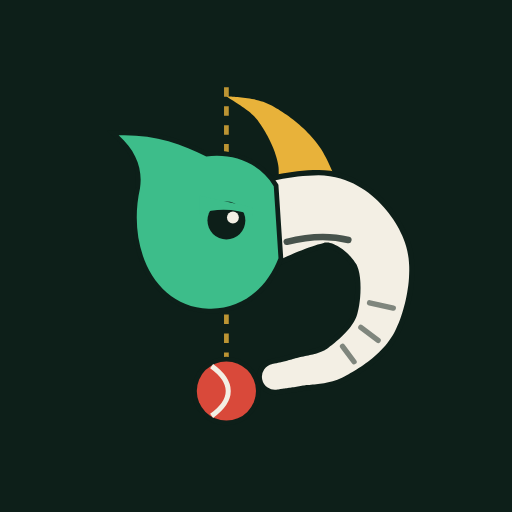
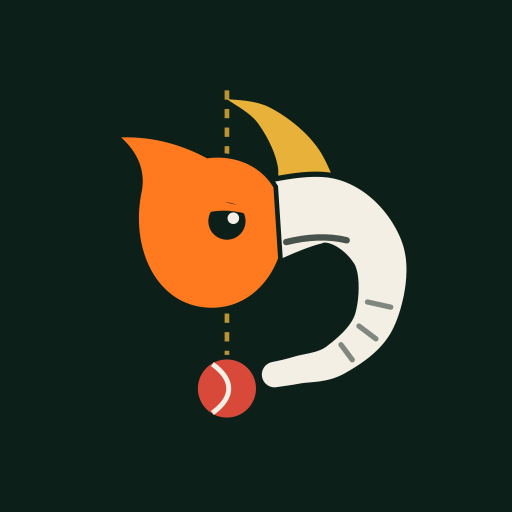
An opening that tells the idea, and an orange mark
- The opening now says what Align is before the page does (about 2.4 s): the
  mark spins in, its gold line drops from the eye to the ball, "Align"
  appears, then "Eyes over the ball." and "Everything in line.", and the
  curtain splits along the line and swings open as the first screen rises.
  The landing page plays it every time it is opened; the app's home once per
  visit. Reduced motion shows it still, then fades.
- The mark's creature is orange (#ff7a1f) instead of green, in the logo
  component, both SVG icons, the PNG app icons, the maskable icon, the Apple
  touch icon and the favicon. The landing page's accent and main button
  follow it, so the line the curtain ends on reads the same on the page.

Claude-Session: https://claude.ai/code/session_018maGUmC6fVNFGE92R1d1BB

diff --git a/src/components/icons.tsx b/src/components/icons.tsx
@@ -56,12 +56,12 @@ export function Mark({ size = 24 }: { size?: number }) {
       <path d="M31.73 34.39 L32.16 34.24 L32.70 34.04 L33.23 33.83 L33.77 33.61 L34.31 33.37 L34.88 33.12 L35.46 32.86 L36.05 32.59 L36.66 32.32 L37.28 32.05 L37.90 31.78 L38.52 31.51 L39.14 31.26 L39.75 31.01 L40.35 30.78 L40.92 30.57 L41.47 30.38 L41.97 30.21 L42.43 30.07 L42.84 29.96 L43.17 29.88 L43.41 29.81 L43.54 29.76 L43.59 29.72 L43.70 29.70 L43.88 29.70 L44.07 29.71 L44.28 29.74 L44.50 29.79 L44.74 29.86 L44.99 29.95 L45.24 30.05 L45.50 30.18 L45.77 30.32 L46.04 30.47 L46.30 30.65 L46.57 30.83 L46.83 31.03 L47.08 31.24 L47.33 31.45 L47.56 31.68 L47.79 31.91 L48.00 32.14 L48.20 32.37 L48.38 32.60 L48.55 32.82 L48.70 33.04 L48.83 33.22 L48.93 33.37 L49.02 33.54 L49.12 33.76 L49.21 34.01 L49.30 34.30 L49.38 34.62 L49.46 34.96 L49.52 35.33 L49.57 35.72 L49.61 36.13 L49.64 36.54 L49.65 36.97 L49.66 37.40 L49.65 37.84 L49.64 38.27 L49.61 38.71 L49.58 39.13 L49.53 39.55 L49.48 39.96 L49.42 40.35 L49.35 40.73 L49.28 41.08 L49.20 41.41 L49.13 41.70 L49.07 41.93 L48.99 42.16 L48.90 42.40 L48.79 42.65 L48.66 42.90 L48.52 43.15 L48.36 43.41 L48.18 43.67 L47.99 43.93 L47.79 44.19 L47.57 44.46 L47.34 44.72 L47.11 44.97 L46.86 45.23 L46.61 45.47 L46.35 45.72 L46.09 45.96 L45.83 46.19 L45.57 46.42 L45.30 46.64 L45.04 46.86 L44.78 47.06 L44.52 47.26 L44.29 47.44 L44.12 47.58 L43.95 47.69 L43.78 47.80 L43.60 47.91 L43.41 48.01 L43.21 48.10 L43.01 48.19 L42.79 48.27 L42.57 48.35 L42.34 48.43 L42.11 48.50 L41.86 48.56 L41.62 48.62 L41.36 48.68 L41.11 48.74 L40.85 48.80 L40.58 48.85 L40.31 48.91 L40.04 48.96 L39.77 49.02 L39.49 49.08 L39.21 49.14 L38.92 49.22 L38.66 49.29 L38.43 49.36 L38.23 49.41 L38.03 49.47 L37.84 49.53 L37.64 49.58 L37.45 49.63 L37.26 49.68 L37.08 49.73 L36.90 49.77 L36.72 49.82 L36.54 49.86 L36.38 49.90 L36.21 49.93 L36.05 49.97 L35.90 50.00 L35.75 50.04 L35.61 50.07 L35.47 50.10 L35.34 50.12 L35.22 50.15 L35.10 50.17 L34.98 50.20 L34.87 50.22 L34.78 50.24 A2.20 2.20 0 0 0 35.62 54.56 L35.70 54.54 L35.79 54.53 L35.89 54.52 L35.99 54.50 L36.11 54.48 L36.24 54.46 L36.38 54.44 L36.53 54.42 L36.69 54.40 L36.85 54.38 L37.02 54.35 L37.20 54.33 L37.38 54.30 L37.58 54.27 L37.77 54.24 L37.97 54.21 L38.18 54.18 L38.40 54.15 L38.61 54.11 L38.84 54.07 L39.06 54.03 L39.29 53.99 L39.53 53.95 L39.74 53.91 L39.93 53.88 L40.11 53.86 L40.31 53.83 L40.53 53.81 L40.77 53.79 L41.02 53.77 L41.29 53.75 L41.57 53.72 L41.86 53.69 L42.17 53.66 L42.48 53.63 L42.81 53.59 L43.15 53.54 L43.49 53.48 L43.85 53.42 L44.21 53.34 L44.59 53.25 L44.96 53.15 L45.35 53.03 L45.74 52.89 L46.13 52.74 L46.53 52.56 L46.93 52.37 L47.31 52.16 L47.64 51.97 L47.96 51.78 L48.29 51.59 L48.64 51.38 L48.99 51.16 L49.35 50.93 L49.72 50.69 L50.09 50.44 L50.47 50.17 L50.85 49.89 L51.23 49.60 L51.61 49.30 L51.99 48.98 L52.37 48.64 L52.74 48.30 L53.11 47.93 L53.47 47.55 L53.83 47.14 L54.17 46.72 L54.50 46.28 L54.82 45.82 L55.13 45.33 L55.41 44.82 L55.67 44.30 L55.89 43.80 L56.10 43.31 L56.30 42.79 L56.49 42.26 L56.67 41.72 L56.84 41.16 L57.00 40.59 L57.15 40.01 L57.29 39.42 L57.42 38.82 L57.53 38.21 L57.63 37.59 L57.72 36.97 L57.79 36.34 L57.84 35.70 L57.87 35.06 L57.89 34.41 L57.88 33.76 L57.84 33.11 L57.78 32.44 L57.68 31.78 L57.55 31.11 L57.38 30.43 L57.17 29.78 L56.95 29.17 L56.71 28.60 L56.44 28.03 L56.16 27.46 L55.85 26.91 L55.52 26.36 L55.17 25.81 L54.80 25.27 L54.40 24.74 L53.99 24.22 L53.55 23.71 L53.08 23.20 L52.60 22.71 L52.09 22.24 L51.55 21.78 L50.99 21.33 L50.40 20.91 L49.78 20.50 L49.13 20.12 L48.46 19.77 L47.75 19.44 L47.02 19.15 L46.25 18.90 L45.41 18.68 L44.46 18.51 L43.50 18.42 L42.58 18.38 L41.69 18.39 L40.81 18.43 L39.94 18.50 L39.08 18.59 L38.23 18.70 L37.38 18.83 L36.55 18.97 L35.72 19.12 L34.91 19.27 L34.13 19.43 L33.36 19.60 L32.62 19.76 L31.91 19.91 L31.24 20.06 L30.62 20.20 L30.04 20.32 L29.53 20.43 L29.09 20.51 L28.74 20.57 L28.50 20.59 L28.27 20.61 Z" fill="#f3efe4" stroke="#0d1f19" strokeWidth="1.8" paintOrder="stroke" />
       <path d="M51.18 39.91 L55.19 40.80 M49.71 44.05 L52.63 46.25 M46.62 47.26 L48.56 49.86 " stroke="#0d1f19" strokeWidth="0.9" strokeLinecap="round" opacity="0.5" />
       <path d="M37.2 29.6 C40.8 28.7,44.4 28.5,47.6 29.3" stroke="#0d1f19" strokeWidth="1.1" strokeLinecap="round" fill="none" opacity="0.75" />
-      <path d="M35 20.2 C32.6 16.2,28 14.6,23.6 15.2 C19.5 13,14.5 11.4,8.8 11.6 C11.8 14.3,12.9 17.4,12.4 20.6 C10.2 30.5,14.8 40.6,24 40.9 C29.6 41.1,33.9 37.4,35.8 32.4 Z" fill="#3dbd8a" stroke="#0d1f19" strokeWidth="1.6" paintOrder="stroke" />
+      <path d="M35 20.2 C32.6 16.2,28 14.6,23.6 15.2 C19.5 13,14.5 11.4,8.8 11.6 C11.8 14.3,12.9 17.4,12.4 20.6 C10.2 30.5,14.8 40.6,24 40.9 C29.6 41.1,33.9 37.4,35.8 32.4 Z" fill="#ff7a1f" stroke="#0d1f19" strokeWidth="1.6" paintOrder="stroke" />
       <circle cx="27" cy="54.8" r="5" fill="#d9493a" stroke="#0d1f19" strokeWidth="1.6" paintOrder="stroke" />
       <path d="M24.50 50.60 C28.25 53.30,28.25 56.30,24.50 59.00" stroke="#f3efe4" strokeWidth="0.85" fill="none" />
       <circle cx="27" cy="26" r="3.2" fill="#0d1f19" />
       <circle cx="28.1" cy="25.5" r="1" fill="#f3efe4" />
-      <path d="M22.40 21.80 L31.40 23.80 L31.40 25.10 C28.80 24.10,25.40 23.80,22.40 24.90 Z" fill="#3dbd8a" />
+      <path d="M22.40 21.80 L31.40 23.80 L31.40 25.10 C28.80 24.10,25.40 23.80,22.40 24.90 Z" fill="#ff7a1f" />
     </svg>
   );
 }

diff --git a/src/app/globals.css b/src/app/globals.css
@@ -410,11 +410,11 @@
   width: 2px;
 }
 .btn-landing {
-  background: #3dbd8a;
-  color: #06130d;
+  background: #ff7a1f;
+  color: #1a0b00;
 }
 .btn-landing:hover {
-  background: #5bcd9f;
+  background: #ff9346;
 }
 .btn-landing-ghost {
   border: 1px solid rgb(243 239 228 / 0.28);
@@ -424,14 +424,15 @@
   background: rgb(243 239 228 / 0.08);
 }
 
-/* The landing page's opening: mark in, line down, curtain open. */
+/* Align's opening: the mark, the line, the name, the idea, then the curtain. ~2.4 s. */
 .intro {
   position: fixed;
   inset: 0;
   z-index: 100;
   pointer-events: none;
   perspective: 1200px;
-  animation: intro-gone 0s linear 1.3s forwards;
+  color: #f3efe4;
+  animation: intro-gone 0s linear 2.45s forwards;
 }
 .intro-half {
   position: absolute;
@@ -442,17 +443,17 @@
     radial-gradient(120% 70% at 50% 40%, #153a2b 0%, transparent 65%),
     #08130f;
   backface-visibility: hidden;
-  will-change: transform, opacity;
+  will-change: transform;
 }
 .intro-left {
   left: 0;
   transform-origin: 0% 50%;
-  animation: intro-door-left 0.6s cubic-bezier(0.6, 0, 0.3, 1) 0.66s forwards;
+  animation: intro-door-left 0.6s cubic-bezier(0.6, 0, 0.3, 1) 1.82s forwards;
 }
 .intro-right {
   right: 0;
   transform-origin: 100% 50%;
-  animation: intro-door-right 0.6s cubic-bezier(0.6, 0, 0.3, 1) 0.66s forwards;
+  animation: intro-door-right 0.6s cubic-bezier(0.6, 0, 0.3, 1) 1.82s forwards;
 }
 .intro-line {
   position: absolute;
@@ -466,40 +467,82 @@
   transform: scaleY(0);
   will-change: transform, opacity;
   animation:
-    intro-line-down 0.38s cubic-bezier(0.2, 0.8, 0.2, 1) 0.28s forwards,
-    intro-fade 0.2s ease-in 0.66s forwards;
+    intro-line-down 0.4s cubic-bezier(0.2, 0.8, 0.2, 1) 0.3s forwards,
+    intro-line-dim 0.3s ease 0.62s forwards,
+    intro-fade 0.2s ease-in 1.8s forwards;
+}
+.intro-stage {
+  position: absolute;
+  inset: 0;
+  display: flex;
+  flex-direction: column;
+  align-items: center;
+  justify-content: center;
+  gap: 0.9rem;
+  padding: 0 1.5rem 6vh;
+  text-align: center;
+  will-change: transform, opacity;
+  animation: intro-stage-out 0.4s cubic-bezier(0.5, 0, 0.75, 0) 1.74s forwards;
 }
 .intro-mark {
-  position: absolute;
-  left: 50%;
-  top: 50%;
   border-radius: 30px;
-  box-shadow: 0 0 70px rgb(61 189 138 / 0.35);
-  transform: translate(-50%, -50%);
-  will-change: transform, opacity;
-  animation:
-    intro-mark-in 0.55s cubic-bezier(0.2, 0.8, 0.2, 1) both,
-    intro-mark-out 0.36s cubic-bezier(0.5, 0, 0.75, 0) 0.64s forwards;
+  box-shadow: 0 0 70px rgb(255 122 31 / 0.35);
+  animation: intro-mark-in 0.55s cubic-bezier(0.2, 0.8, 0.2, 1) both;
+}
+.intro-word {
+  font-size: 2.6rem;
+  font-weight: 650;
+  letter-spacing: -0.03em;
+  line-height: 1;
+  animation: intro-word-in 0.5s cubic-bezier(0.2, 0.8, 0.2, 1) 0.55s both;
+}
+.intro-tag {
+  display: flex;
+  flex-direction: column;
+  gap: 0.15rem;
+  font-size: 1.4rem;
+  font-weight: 600;
+  letter-spacing: -0.01em;
+}
+.intro-t1 {
+  animation: intro-rise-in 0.42s cubic-bezier(0.2, 0.8, 0.2, 1) 0.88s both;
+}
+.intro-t2 {
+  color: #ff7a1f;
+  animation: intro-rise-in 0.42s cubic-bezier(0.2, 0.8, 0.2, 1) 1.14s both;
 }
 @keyframes intro-mark-in {
   from {
-    transform: translate(-50%, -50%) rotateY(-200deg) scale(0.5);
+    transform: rotateY(-200deg) scale(0.5);
     opacity: 0;
   }
-  to {
-    transform: translate(-50%, -50%) rotateY(0deg) scale(1);
-    opacity: 1;
+}
+@keyframes intro-word-in {
+  from {
+    opacity: 0;
+    letter-spacing: 0.35em;
   }
 }
-@keyframes intro-mark-out {
+@keyframes intro-rise-in {
+  from {
+    opacity: 0;
+    transform: translateY(10px);
+  }
+}
+@keyframes intro-stage-out {
   to {
-    transform: translate(-50%, -50%) scale(1.9);
+    transform: scale(1.18);
     opacity: 0;
   }
 }
 @keyframes intro-line-down {
   to {
     transform: scaleY(1);
+  }
+}
+@keyframes intro-line-dim {
+  to {
+    opacity: 0.3;
   }
 }
 @keyframes intro-fade {
@@ -524,7 +567,7 @@
 }
 /* What the curtain opens onto rises into place as it opens (only when the curtain plays). */
 .intro ~ section .intro-after {
-  animation: intro-rise 0.7s cubic-bezier(0.2, 0.8, 0.2, 1) 0.74s both;
+  animation: intro-rise 0.7s cubic-bezier(0.2, 0.8, 0.2, 1) 1.9s both;
 }
 @keyframes intro-rise {
   from {
@@ -533,14 +576,18 @@
   }
 }
 @media (prefers-reduced-motion: reduce) {
-  /* No spin, no swing: the mark shows, then the whole curtain fades. */
+  /* No spin, no swing: the name and the idea, still, then the whole curtain fades. */
   .intro {
     animation:
-      intro-fade 0.4s ease 0.7s forwards,
-      intro-gone 0s linear 1.1s forwards;
+      intro-fade 0.4s ease 1.7s forwards,
+      intro-gone 0s linear 2.1s forwards;
   }
   .intro-half,
-  .intro-mark {
+  .intro-mark,
+  .intro-word,
+  .intro-t1,
+  .intro-t2,
+  .intro-stage {
     animation: none;
   }
   .intro-line {
@@ -550,3 +597,4 @@
     animation: none;
   }
 }
+

diff --git a/src/components/landing/intro.tsx b/src/components/landing/intro.tsx
@@ -3,36 +3,43 @@
 import { useState } from "react";
 import { Mark } from "@/components/icons";
 
-// Shown once per visit: on the page Align opens on (the landing page, or the app's home
-// when it is launched from the home screen), never again on moving between pages.
+// The app's home plays it once per visit (when Align is opened from the home screen);
+// the landing page plays it every time it is opened.
 let played = false;
 
 /**
- * Align's opening, like a film studio's ident before the feature: the mark spins in, its
- * gold line runs the height of the screen, then the curtain splits along that line and
- * swings open onto the page. About 1.3 s, all CSS (it starts before any script loads and
- * runs on the compositor), and it never blocks a tap. With reduced motion asked for, the
- * mark simply fades away instead.
+ * Align's opening, like a film studio's ident before the feature, telling the idea before
+ * the page does: the mark spins in, its gold line drops from the eye to the ball, the name
+ * appears, then "Eyes over the ball. Everything in line.", and the curtain splits along
+ * the line and swings open onto the page. About 2.4 s, all CSS (it starts before any
+ * script loads and runs on the compositor), and it never blocks a tap. With reduced
+ * motion asked for, it shows still and fades.
  */
-export function Intro() {
-  const [first] = useState(() => {
-    // The server always draws it (each page is prepared on its own); the browser keeps
-    // count, so the page a visit opens on plays it and later pages don't.
+export function Intro({ always = false }: { always?: boolean }) {
+  const [show] = useState(() => {
+    // The server always draws it (each page is prepared on its own); the browser keeps count.
     if (typeof window === "undefined") return true;
-    const f = !played;
+    const first = !played;
     played = true;
-    return f;
+    return always || first;
   });
-  if (!first) return null;
+  if (!show) return null;
   return (
     <div className="intro" aria-hidden>
       <div className="intro-half intro-left" />
       <div className="intro-half intro-right" />
       <div className="intro-line" />
-      <div className="intro-mark">
-        <span className="block overflow-hidden rounded-[30px]">
-          <Mark size={120} />
-        </span>
+      <div className="intro-stage">
+        <div className="intro-mark">
+          <span className="block overflow-hidden rounded-[30px]">
+            <Mark size={112} />
+          </span>
+        </div>
+        <p className="intro-word">Align</p>
+        <p className="intro-tag">
+          <span className="intro-t1">Eyes over the ball.</span>
+          <span className="intro-t2">Everything in line.</span>
+        </p>
       </div>
     </div>
   );

diff --git a/src/app/page.tsx b/src/app/page.tsx
@@ -46,7 +46,7 @@ export default function Landing() {
 
   return (
     <main id="main">
-      <Intro />
+      <Intro always />
       {/* 1 · The line: a full first screen on the brand's own ground */}
       <section className="landing-dark relative overflow-hidden">
         <div className="landing-grid absolute inset-0" aria-hidden />
@@ -65,7 +65,7 @@ export default function Landing() {
             <h1 className="display mt-5 text-[2.3rem] leading-[1.02] min-[400px]:text-[2.5rem] sm:text-7xl lg:text-[5.2rem]">
               Eyes over the ball.
               <br />
-              <span className="text-[#3dbd8a]">Everything in line.</span>
+              <span className="text-[#ff7a1f]">Everything in line.</span>
             </h1>
             <p className="lp-muted mt-6 max-w-xl text-base sm:text-lg">
               Align watches your forward defence and shows whether your head, hands and front foot lined up with the ball. Then it gives you the one thing to
@@ -82,7 +82,7 @@ export default function Landing() {
             </ul>
           </div>
           <figure className="overflow-hidden rounded-[22px] shadow-[0_30px_80px_-30px_rgb(0_0_0/0.8)] ring-1 ring-white/10">
-            <AlignHero pose={story.poses[hero]!} ballFrom={story.poses[hero - 1]?.ball} after={1} />
+            <AlignHero pose={story.poses[hero]!} ballFrom={story.poses[hero - 1]?.ball} after={2.1} />
           </figure>
         </div>
       </section>
